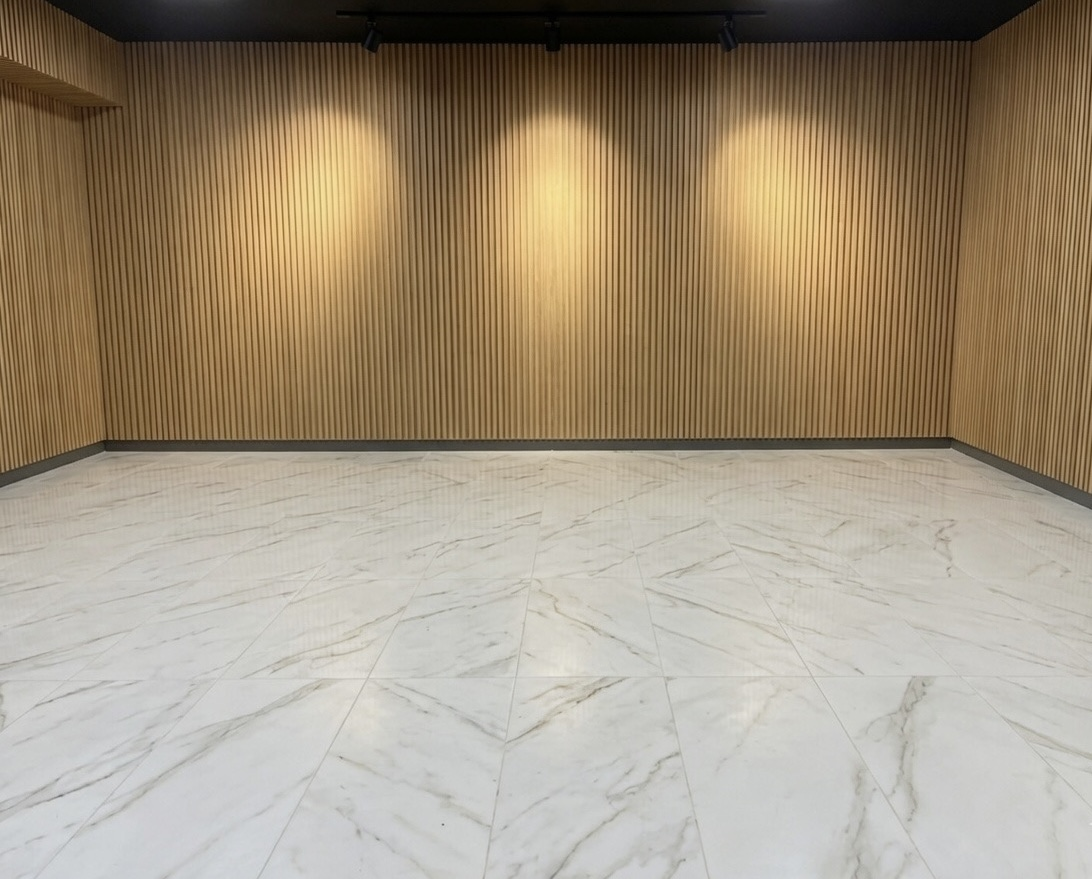
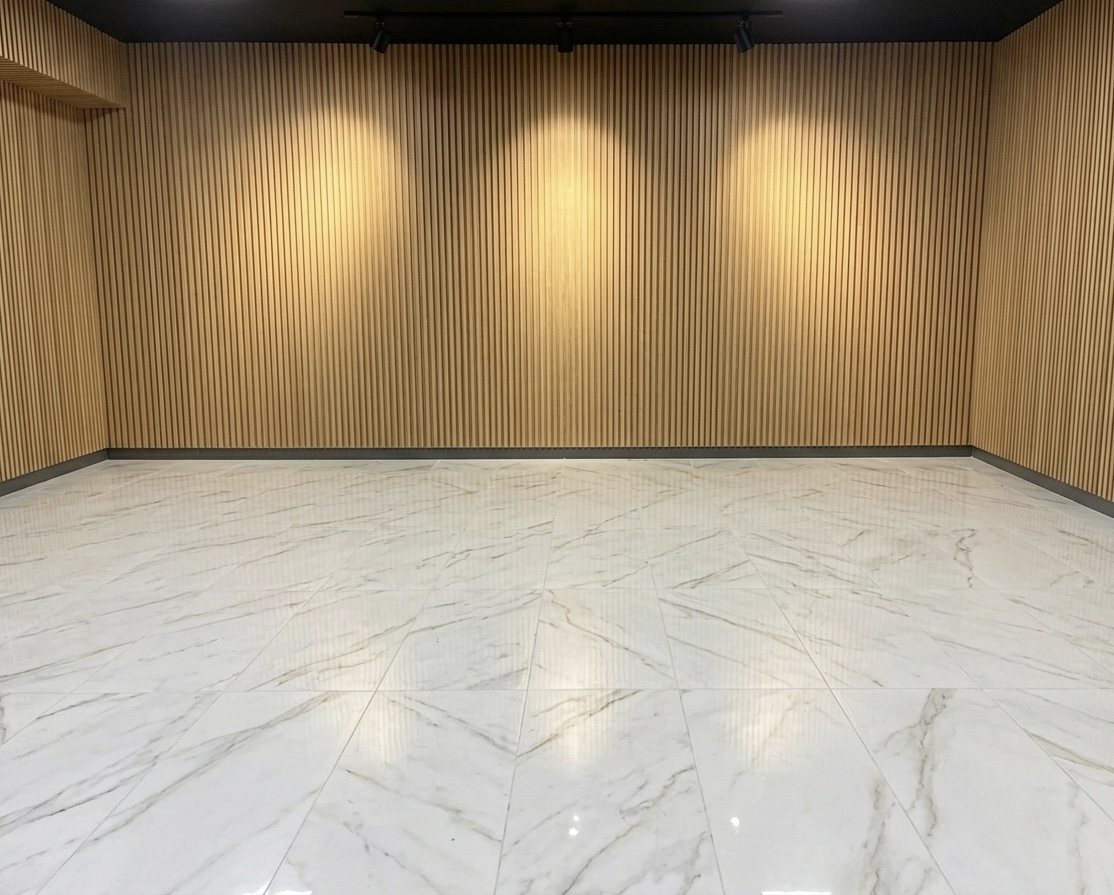
Mise à jour des photos de showroom Luxury, Classique et Garage
https://claude.ai/code/session_01DKgS8j8FS5wBTwu3CzYCP4

diff --git a/src/App.jsx b/src/App.jsx
@@ -610,7 +610,7 @@ function makeShowroomBackground(index, W, H) {
 
 // Miniatures pré-calculées une fois (évite de régénérer à chaque rendu)
 // Images réelles de showroom (null = fond généré par canvas)
-const SHOWROOM_IMAGES = ['/showrooms/luxury.jpg', '/showrooms/blanc.jpg', '/showrooms/classique.jpg', '/showrooms/garage.jpg'];
+const SHOWROOM_IMAGES = ['/showrooms/Luxury.jpeg', '/showrooms/blanc.jpg', '/showrooms/Classique.jpeg', '/showrooms/Clean.jpeg'];
 const SHOWROOM_LABELS = ['Luxury', 'Showroom Blanc', 'Classique', 'Garage'];
 const SHOWROOM_THUMBS = [0, 1, 2, 3].map(i => SHOWROOM_IMAGES[i] ?? makeShowroomBackground(i, 160, 90));
 
